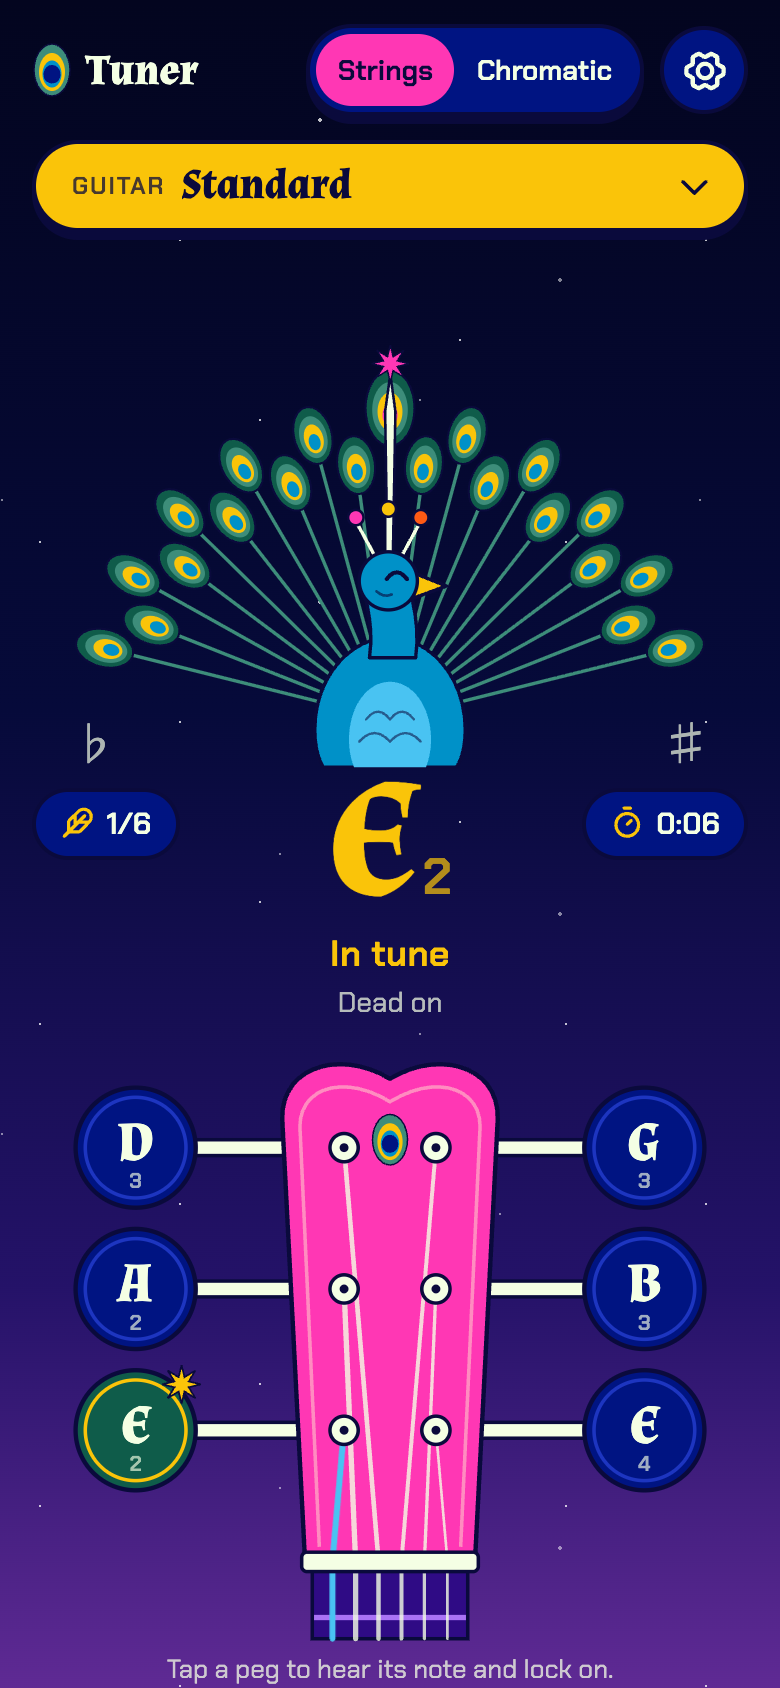
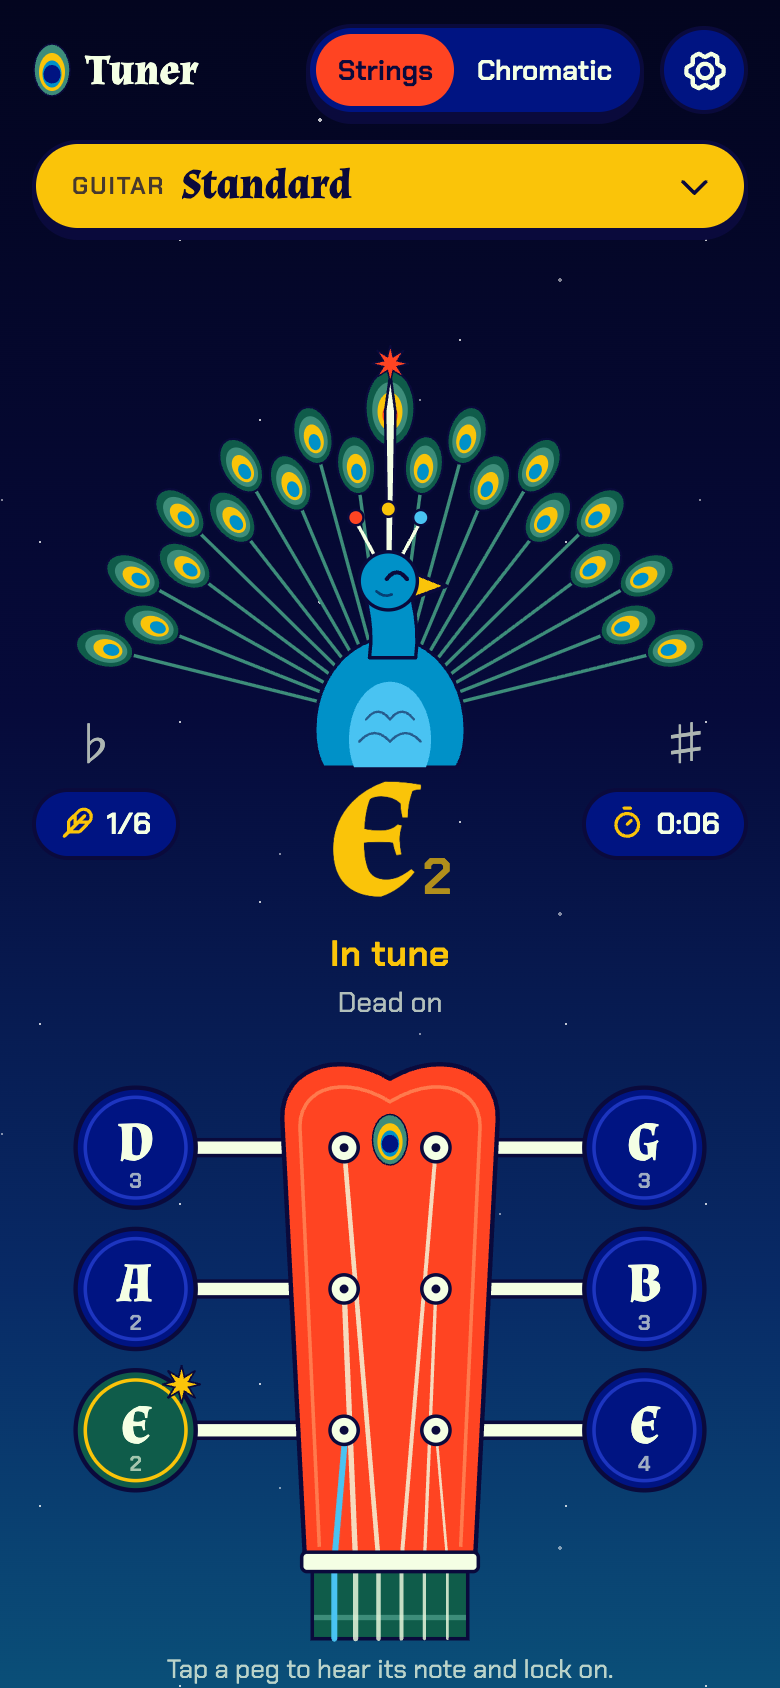
Replace pink and purple with red-orange, teal and blue

Changed region(s): [[0.0, 0.6161, 1.0, 1.0], [0.4, 0.0, 0.5846, 0.0616], [0.4923, 0.1848, 0.5231, 0.2464]]

diff --git a/public/styles.css b/public/styles.css
@@ -10,19 +10,18 @@
   --night: #060a3a;
   --cobalt: #001482;
   --royal: #1d35c0;
-  --pink: #ff37b4;
-  --pink-soft: #ff8cc0;
+  --red: #ff4422;
+  --red-soft: #ff7a4d;
   --yellow: #fac409;
   --orange: #ff5a14;
   --cyan: #0091c8;
   --sky-blue: #49c3f2;
-  --purple: #a973f5;
   --green: #3d8d7a;
   --green-deep: #0f5c4a;
   --cream: #f4ffe4;
 
   --flat: var(--sky-blue);   /* too low */
-  --sharp: var(--pink);      /* too high */
+  --sharp: var(--red);      /* too high */
   --good: var(--yellow);     /* in tune */
 
   --display: 'Almendra', 'Iowan Old Style', 'Palatino Linotype', serif;
@@ -58,7 +57,7 @@ button { font: inherit; color: inherit; cursor: pointer; border: 0; background: 
 .sky {
   position: fixed; inset: 0; z-index: -1; pointer-events: none;
   background:
-    linear-gradient(180deg, #03051f 0%, var(--night) 42%, #241268 76%, #5f2a94 100%);
+    linear-gradient(180deg, #03051f 0%, var(--night) 42%, #082a66 76%, #0a4f78 100%);
 }
 .sky::before, .sky::after {
   content: ''; position: absolute; inset: 0;
@@ -110,7 +109,7 @@ button { font: inherit; color: inherit; cursor: pointer; border: 0; background: 
 
 .seg { display: inline-flex; padding: 3px; border-radius: 200px; background: var(--cobalt); border: 2px solid var(--ink); box-shadow: 0 4px 0 var(--ink); }
 .seg button { min-height: 36px; padding: 0 11px; border-radius: 200px; font-weight: 600; font-size: 14px; color: var(--cream); transition: background .2s, color .2s; }
-.seg button[aria-checked='true'] { background: var(--pink); color: var(--ink); }
+.seg button[aria-checked='true'] { background: var(--red); color: var(--ink); }
 
 .icon-btn {
   width: 44px; height: 44px; display: inline-grid; place-items: center;
@@ -160,10 +159,10 @@ button { font: inherit; color: inherit; cursor: pointer; border: 0; background: 
 .feather .f-core { fill: var(--core); }
 .feather * { transition: fill .18s linear, stroke .18s linear; }
 .feather.is-flat { --plume: #0b5f8f; --ring: var(--sky-blue); --mid: var(--cream); --core: var(--cobalt); --stem: var(--sky-blue); }
-.feather.is-sharp { --plume: #a3157a; --ring: var(--pink); --mid: var(--yellow); --core: var(--cobalt); --stem: var(--pink); }
+.feather.is-sharp { --plume: #a32a10; --ring: var(--red); --mid: var(--yellow); --core: var(--cobalt); --stem: var(--red); }
 .feather.is-good, .fan.is-good .feather { --plume: var(--green-deep); --ring: var(--green); --mid: var(--yellow); --core: var(--cobalt); --stem: var(--green); }
 .fan.is-good .feather .f-core { fill: var(--cyan); }
-.fan.is-good .feather.is-center .f-core { fill: var(--pink); }
+.fan.is-good .feather.is-center .f-core { fill: var(--red); }
 .feather.is-center { --ring: #2440d8; --mid: #3352ee; }
 
 .fan-mark { font-family: var(--display); font-weight: 700; font-size: 26px; fill: var(--cream); opacity: .7; }
@@ -172,7 +171,7 @@ button { font: inherit; color: inherit; cursor: pointer; border: 0; background: 
 .needle path { fill: var(--cream); stroke: var(--ink); stroke-width: 1.5; stroke-linejoin: round; }
 .needle use { fill: var(--yellow); stroke: var(--ink); stroke-width: .8; }
 .fan.is-idle .needle { opacity: .28; }
-.fan.is-good .needle use { fill: var(--pink); }
+.fan.is-good .needle use { fill: var(--red); }
 
 .bird-body { fill: var(--cyan); stroke: var(--ink); stroke-width: 2; }
 .bird-belly { fill: var(--sky-blue); }
@@ -182,7 +181,7 @@ button { font: inherit; color: inherit; cursor: pointer; border: 0; background: 
 .bird-beak { fill: var(--yellow); stroke: var(--ink); stroke-width: 2; stroke-linejoin: round; }
 .bird-crest path { stroke: var(--cream); stroke-width: 2; stroke-linecap: round; fill: none; }
 .bird-crest circle { stroke: var(--ink); stroke-width: 1.5; }
-.bird-crest .c1 { fill: var(--pink); } .bird-crest .c2 { fill: var(--yellow); } .bird-crest .c3 { fill: var(--orange); }
+.bird-crest .c1 { fill: var(--red); } .bird-crest .c2 { fill: var(--yellow); } .bird-crest .c3 { fill: var(--sky-blue); }
 .bird-eye-happy { fill: none; stroke: var(--ink); stroke-width: 2.4; stroke-linecap: round; display: none; }
 .bird-cheek { fill: none; stroke: var(--ink); stroke-width: 1.6; stroke-linecap: round; opacity: .6; }
 .fan.is-good .bird-eye-open { display: none; }
@@ -204,10 +203,10 @@ button { font: inherit; color: inherit; cursor: pointer; border: 0; background: 
 .readout[data-state='idle'] .note { opacity: .5; }
 
 /* ---------- Headstock ---------- */
-.hs-neck { fill: #2f0b85; stroke: var(--ink); stroke-width: 2; }
-.hs-fret { stroke: var(--purple); stroke-width: 3; }
-.hs-body { fill: var(--pink); stroke: var(--ink); stroke-width: 2.5; stroke-linejoin: round; }
-.hs-inlay { fill: none; stroke: var(--pink-soft); stroke-width: 2; }
+.hs-neck { fill: var(--green-deep); stroke: var(--ink); stroke-width: 2; }
+.hs-fret { stroke: var(--green); stroke-width: 3; }
+.hs-body { fill: var(--red); stroke: var(--ink); stroke-width: 2.5; stroke-linejoin: round; }
+.hs-inlay { fill: none; stroke: var(--red-soft); stroke-width: 2; }
 .hs-nut { fill: var(--cream); stroke: var(--ink); stroke-width: 2; }
 .hs-shaft-out { stroke: var(--ink); stroke-width: 11; stroke-linecap: round; }
 .hs-shaft-in { stroke: var(--cream); stroke-width: 7; stroke-linecap: round; }
@@ -248,7 +247,7 @@ button { font: inherit; color: inherit; cursor: pointer; border: 0; background: 
 .chroma-hz { font-variant-numeric: tabular-nums; font-weight: 600; font-size: 18px; }
 
 .mic-error { grid-column: 1 / -1; display: grid; justify-items: center; gap: 12px; text-align: center; max-width: 420px; padding: 18px 22px; margin-top: 12px; border-radius: 28px; background: var(--cobalt); border: 2px solid var(--ink); }
-.mic-error > .ico { font-size: 30px; color: var(--pink); }
+.mic-error > .ico { font-size: 30px; color: var(--red); }
 
 /* ---------- Footer ---------- */
 .foot { display: grid; justify-items: center; padding: 28px 0 calc(40px + env(safe-area-inset-bottom)); }
@@ -258,7 +257,7 @@ dialog { color: var(--cream); border: 0; padding: 0; background: none; max-width
 dialog::backdrop { background: rgba(3, 5, 31, .72); }
 .sheet {
   width: min(920px, 100vw); max-height: 88dvh; margin: auto auto 0; padding: 18px 16px calc(22px + env(safe-area-inset-bottom));
-  background: linear-gradient(180deg, #7a4fb0, #a8468f);
+  background: linear-gradient(180deg, #12705a, #0b4a6e);
   border: 2px solid var(--ink); border-bottom: 0; border-radius: 28px 28px 0 0;
   overflow-y: auto; overscroll-behavior: contain;
 }
@@ -268,7 +267,7 @@ dialog::backdrop { background: rgba(3, 5, 31, .72); }
 .sheet-head h2 { font-family: var(--display); font-weight: 700; font-size: 30px; line-height: 1.1; }
 .tabs { display: inline-flex; padding: 3px; border-radius: 200px; background: var(--cobalt); border: 2px solid var(--ink); margin-bottom: 16px; }
 .tabs button { min-height: 40px; padding: 0 18px; border-radius: 200px; font-weight: 600; }
-.tabs button[aria-selected='true'] { background: var(--pink); color: var(--ink); }
+.tabs button[aria-selected='true'] { background: var(--red); color: var(--ink); }
 
 .cards { display: grid; grid-template-columns: repeat(2, 1fr); gap: 12px; perspective: 1200px; }
 .card {
@@ -279,7 +278,7 @@ dialog::backdrop { background: rgba(3, 5, 31, .72); }
   transition: transform .35s var(--ease), box-shadow .2s;
   animation: card-in .6s var(--ease) both; animation-delay: calc(var(--i) * 45ms);
 }
-.card::before, .card::after { content: ''; display: block; width: calc(100% - 16px); height: 14px; background: var(--pink); border: 1.5px solid var(--ink); border-radius: 4px; margin: 13px 0 2px; }
+.card::before, .card::after { content: ''; display: block; width: calc(100% - 16px); height: 14px; background: var(--red); border: 1.5px solid var(--ink); border-radius: 4px; margin: 13px 0 2px; }
 .card::after { margin: 2px 0 13px; grid-row: 3; }
 .card-mid { display: grid; justify-items: center; align-content: center; gap: 6px; }
 .card-eye { width: 26px; height: 36px; transition: transform .5s var(--ease); }
@@ -301,11 +300,11 @@ dialog::backdrop { background: rgba(3, 5, 31, .72); }
 .stepper output { min-width: 68px; text-align: center; font-weight: 600; font-variant-numeric: tabular-nums; }
 .switch { width: 64px; height: 38px; border-radius: 200px; background: var(--cobalt); border: 2px solid var(--ink); padding: 3px; flex: none; transition: background .2s; }
 .switch span { display: block; width: 28px; height: 28px; border-radius: 50%; background: var(--cream); border: 2px solid var(--ink); transition: transform .35s var(--ease); }
-.switch[aria-checked='true'] { background: var(--pink); }
+.switch[aria-checked='true'] { background: var(--red); }
 .switch[aria-checked='true'] span { transform: translateX(26px); }
 
 /* Win */
-.win { margin: auto; width: min(480px, calc(100vw - 32px)); padding: 0 20px 26px; text-align: center; border-radius: 28px; background: var(--cobalt); border: 2px solid var(--ink); box-shadow: 0 0 0 5px var(--yellow), 0 0 0 7px var(--ink), 0 0 0 13px var(--pink), 0 0 0 15px var(--ink); overflow: visible; }
+.win { margin: auto; width: min(480px, calc(100vw - 32px)); padding: 0 20px 26px; text-align: center; border-radius: 28px; background: var(--cobalt); border: 2px solid var(--ink); box-shadow: 0 0 0 5px var(--yellow), 0 0 0 7px var(--ink), 0 0 0 13px var(--red), 0 0 0 15px var(--ink); overflow: visible; }
 .win[open] { display: grid; justify-items: center; gap: 10px; animation: win-in .7s var(--ease); }
 .win-fan { width: 100%; margin-top: -40px; overflow: visible; }
 .win-fan .wf { transform-box: view-box; transform-origin: 200px 228px; animation: fan-open .9s var(--ease) both; animation-delay: calc(var(--i) * 40ms); }
@@ -316,7 +315,7 @@ dialog::backdrop { background: rgba(3, 5, 31, .72); }
 .ribbon h2 { font-family: var(--display); font-weight: 700; font-size: clamp(26px, 7vw, 36px); line-height: 1.1; white-space: nowrap; }
 .win-time { font-size: 18px; margin-top: 8px; }
 .win-time strong { font-family: var(--display); font-size: 30px; color: var(--yellow); font-variant-numeric: tabular-nums; }
-.win-best { color: var(--pink-soft); font-weight: 600; min-height: 24px; }
+.win-best { color: var(--red-soft); font-weight: 600; min-height: 24px; }
 .win-actions { display: flex; flex-wrap: wrap; justify-content: center; gap: 12px; margin-top: 6px; }
 
 /* ---------- Curtain ---------- */
@@ -325,16 +324,16 @@ dialog::backdrop { background: rgba(3, 5, 31, .72); }
   position: absolute; top: 0; bottom: 0; width: 50.5%;
   background:
     repeating-linear-gradient(90deg, transparent 0 13.6%, rgba(10, 10, 60, .28) 13.6% 14%, transparent 14% 33%),
-    linear-gradient(180deg, var(--pink-soft), #ff7fb9);
+    linear-gradient(180deg, var(--red-soft), #ff6a3a);
   transition: transform 1.5s var(--ease-curtain);
 }
 .drape-l { left: 0; border-right: 2px solid var(--ink); transform-origin: 0 0; }
 .drape-r { right: 0; border-left: 2px solid var(--ink); transform-origin: 100% 0; }
 .rope { position: absolute; top: 0; bottom: 0; left: 50%; width: 26px; margin-left: -13px; background: repeating-linear-gradient(180deg, var(--yellow) 0 22px, #e2ad00 22px 26px); border-inline: 2px solid var(--ink); transition: transform 1s var(--ease-curtain), opacity .6s; }
-.valance { position: absolute; top: 0; left: 0; right: 0; height: clamp(84px, 17dvh, 170px); background: var(--pink); transition: transform 1.3s var(--ease-curtain) .15s; }
+.valance { position: absolute; top: 0; left: 0; right: 0; height: clamp(84px, 17dvh, 170px); background: var(--red); transition: transform 1.3s var(--ease-curtain) .15s; }
 .valance::after {
   content: ''; position: absolute; top: 100%; left: 0; right: 0; height: 64px; margin-top: -1px;
-  background: radial-gradient(ellipse 58px 62px at 50% 0, var(--pink) 0 93%, var(--ink) 94% 99%, transparent 100%) 50% 0 / 112px 64px repeat-x;
+  background: radial-gradient(ellipse 58px 62px at 50% 0, var(--red) 0 93%, var(--ink) 94% 99%, transparent 100%) 50% 0 / 112px 64px repeat-x;
 }
 .curtain-star { position: absolute; top: clamp(18px, 4dvh, 44px); width: clamp(44px, 7vw, 76px); aspect-ratio: 1; fill: var(--yellow); stroke: var(--ink); stroke-width: .5; animation: spin 24s linear infinite; transition: transform .8s, opacity .5s; }
 .cs-l { left: 3%; } .cs-r { right: 3%; animation-direction: reverse; }
@@ -352,8 +351,8 @@ dialog::backdrop { background: rgba(3, 5, 31, .72); }
 .playbill-eye { width: 54px; height: 76px; margin-top: -72px; filter: drop-shadow(0 3px 0 var(--ink)); animation: bob 3.4s ease-in-out infinite alternate; }
 .playbill h1 { font-family: var(--display); font-weight: 700; font-size: clamp(46px, 13vw, 68px); line-height: .95; letter-spacing: -.01em; }
 .playbill p { font-size: 17px; max-width: 26ch; }
-.playbill .btn { background: var(--pink); margin-top: 4px; }
-.playbill .btn:hover { background: #ff5cc2; }
+.playbill .btn { background: var(--red); margin-top: 4px; }
+.playbill .btn:hover { background: #ff6a4d; }
 
 .curtain.is-open { pointer-events: none; }
 .curtain.is-open .drape-l { transform: translateX(-101%) skewX(4deg); }
@@ -375,7 +374,7 @@ dialog::backdrop { background: rgba(3, 5, 31, .72); }
 @keyframes vib { from { transform: translateX(-1.1px); } to { transform: translateX(1.1px); } }
 @keyframes peg-pop { 0% { transform: scale(1); } 40% { transform: scale(1.22); } 100% { transform: scale(1); } }
 @keyframes bird-hop { 0%, 100% { transform: translateY(0) scaleY(1); } 30% { transform: translateY(-12px) scaleY(1.04); } 60% { transform: translateY(0) scaleY(.96); } }
-@keyframes party { 0%, 100% { --ring: var(--green); --mid: var(--yellow); } 33% { --ring: var(--pink); --mid: var(--cream); } 66% { --ring: var(--orange); --mid: var(--sky-blue); } }
+@keyframes party { 0%, 100% { --ring: var(--green); --mid: var(--yellow); } 33% { --ring: var(--red); --mid: var(--cream); } 66% { --ring: var(--orange); --mid: var(--sky-blue); } }
 
 .string.is-ringing { animation: vib .07s linear infinite alternate; }
 .peg.just-tuned .peg-pop { animation: peg-pop .6s var(--ease); }
@@ -392,8 +391,8 @@ dialog::backdrop { background: rgba(3, 5, 31, .72); }
     grid-template-columns: 1fr 1fr; align-items: center; column-gap: 24px;
     min-height: 0; margin: 26px 16px 0; padding: 30px 34px 34px;
     border-radius: 28px; border: 2px solid var(--ink);
-    background: linear-gradient(180deg, rgba(0, 20, 130, .55), rgba(47, 11, 133, .5));
-    box-shadow: 0 0 0 5px var(--yellow), 0 0 0 7px var(--ink), 0 0 0 13px var(--pink), 0 0 0 15px var(--ink);
+    background: linear-gradient(180deg, rgba(0, 20, 130, .55), rgba(0, 70, 110, .5));
+    box-shadow: 0 0 0 5px var(--yellow), 0 0 0 7px var(--ink), 0 0 0 13px var(--red), 0 0 0 15px var(--ink);
   }
   .fan { max-height: 42dvh; }
   .head { max-height: 56dvh; }

diff --git a/public/sw.js b/public/sw.js
@@ -1,5 +1,5 @@
 // Offline support: serve from cache, refresh the cache in the background.
-const CACHE = 'pav-tuner-v2';
+const CACHE = 'pav-tuner-v3';
 const SHELL = ['/', '/styles.css', '/js/app.js', '/js/pitch.js', '/js/tunings.js', '/js/scene.js', '/js/audio.js', '/js/fx.js',
   '/fonts/almendra-400-normal.woff2', '/fonts/almendra-700-normal.woff2', '/fonts/chakra-petch-400-normal.woff2', '/fonts/chakra-petch-600-normal.woff2',
   '/icons/icon.svg', '/manifest.webmanifest'];

diff --git a/public/js/fx.js b/public/js/fx.js
@@ -1,6 +1,6 @@
 // Tiny canvas particle system for the "feather locked" and "all tuned" moments.
 
-const COLORS = ['#fac409', '#ff37b4', '#49c3f2', '#ff5a14', '#f4ffe4', '#3d8d7a', '#a973f5'];
+const COLORS = ['#fac409', '#ff4422', '#49c3f2', '#ff5a14', '#f4ffe4', '#3d8d7a', '#0091c8'];
 const INK = '#0a0a3c';
 
 export function createFx(canvas) {
